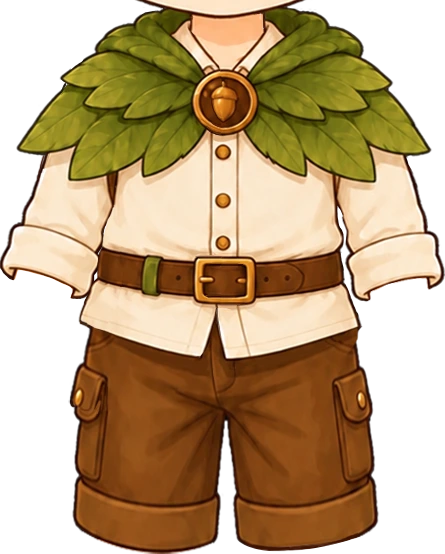
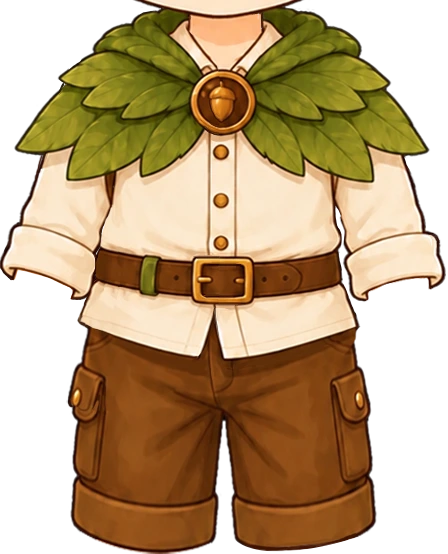
도토리 탐험복(남아) 새 원화로 재교체 (#754)
* 해적 신발 크기·위치 재조정 (베이스 다리 비율에 맞춤)

- 해적 남아 원화와 비교해 베이스가 다리가 짧고 가늘어서, 신발 높이를 112로
  줄이고 윗선을 y827에 맞춤(발바닥 y939)
- 왼짝·오른짝을 따로 배치해 발별로 미세 조정할 수 있게 함
- 같은 파일명이라 경로에 ?v=2

Claude-Session: https://claude.ai/code/session_018maNuYqDfFyRSe9uKpZhPR

* 오늘의 발견을 수첩에 붙인 메모지 디자인으로 변경

- 크림색 종이 질감 + 연두 마스킹테이프, 테두리 없이 그림자·거친 가장자리로만 표현
- 수첩보다 살짝 좁게, '오늘의 발견'은 작게 · 발견 내용은 진한 갈색으로 크게
- 도감 버튼을 오른쪽 작은 알약 버튼(도감 N개 ›)으로
- '탐험일지' 머리말 아래 · 수첩 바로 위로 이동
- App.jsx에서 DiscoveryMemo 컴포넌트로 분리

Claude-Session: https://claude.ai/code/session_018maNuYqDfFyRSe9uKpZhPR

* 오늘의 발견 메모지: 글씨 줄이고 테이프를 왼쪽 위 모서리 대각선으로

- 발견 내용 16.5 → 14 (폰에서 짧은 힌트도 두 줄로 꺾이던 문제), 머리말·도감 버튼·아이콘도 한 단계씩
- 위쪽 가운데 테이프가 '탐험일지' 머리말 줄과 겹쳐 보여 왼쪽 위 모서리에 대각선으로

Claude-Session: https://claude.ai/code/session_018maNuYqDfFyRSe9uKpZhPR

* 오늘의 발견 메모지: 힌트 날의 발자국 아이콘 제거

발자국 자리만큼 힌트가 한 줄에 더 들어가게 함. 찾은 날의 발견 이모지는 유지.

Claude-Session: https://claude.ai/code/session_018maNuYqDfFyRSe9uKpZhPR

* 남아 아바타 기본 몸체 새 버전으로 교체

사용자 제공 원화(갈색 짧은 머리)로 body.webp 업데이트.
버전을 v8 → v9로 올려 기존 기기 캐시 무효화.
art-src/body-boy-src.webp에 원본 보관 (webp q92).

Claude-Session: https://claude.ai/code/session_018maNuYqDfFyRSe9uKpZhPR

* 남아 베이스 v9 탑재 바로잡기 (머리 겹침·비율 깨짐 수정)

직전 커밋은 원화(머리 포함 전신)를 1024×1024로 통째로 늘려 body.webp에 넣어
베이스 머리가 그 위에 또 그려지고 몸 비율도 깨졌다. v8과 같은 공식으로 다시 탑재:
- 알파 상자를 v8 자리(y89~942, 가로 중심 512)에 맞춤 — 실루엣 IoU 0.976이라 장비 재조정 불필요
- y405에서 가로로 잘라 head/body, 합본 default까지 3장 교체, 경로 ?v=9
- art-src: base-v9-boy-src.webp로 이름 정리, 규칙 6에 따라 base-v8-boy-src 삭제
[…]

diff --git a/src/data/avatarEquipment.js b/src/data/avatarEquipment.js
@@ -306,7 +306,7 @@ export const AVATAR_CATALOG = [
   /* [2026-10-02] 새 원화로 교체 (잎사귀 망토 + 크림 셔츠 + 갈색 반바지 한 벌, 사용자 원화) — 위 탑재값은 옛 판 기록.
      비치룩·보드룩과 같은 방식: 원화 목 중심(x227.43)을 x516 에, 턱선 y14 를 y399 에 고정하고 어깨·속옷이 다 가려지는
      가장 작은 배율 0.71. 턱은 지우고, 목 살(크림 깃과 R−B 로 구분)만 페이드로 베이스 목과 섞었다. 탑재 상자 (355,391)-(671,782). */
-  { id: "top_acorn",      slot: "top",   label: "도토리 탐험복", emoji: "🌰", price:DECOR_PRICE.rare, rarity: "rare", theme: "adventure", forGender: "boy", coversBottom: true, img: "assets/avatar/top/acorn-outfit-boy.webp?v=2", thumb: "assets/avatar/thumb/top_acorn.webp?v=2" },
+  { id: "top_acorn",      slot: "top",   label: "도토리 탐험복", emoji: "🌰", price:DECOR_PRICE.rare, rarity: "rare", theme: "adventure", forGender: "boy", coversBottom: true, img: "assets/avatar/top/acorn-outfit-boy.webp?v=3", thumb: "assets/avatar/thumb/top_acorn.webp?v=3" },
   { id: "top_space",      slot: "top",   label: "우주복",       emoji: "🚀", price:DECOR_PRICE.epic, rarity: "epic", theme: "space",  coversBottom: true, img: "assets/avatar/top/space-suit-boy.webp?v=3", imgGirl: "assets/avatar/top/space-suit-girl.webp", thumb: "assets/avatar/thumb/top_space.webp?v=3", thumbGirl: "assets/avatar/thumb/top_space-girl.webp" },
 
   /* ── 우주 세트 (남아) — 사용자 원화 2026-09-29 ────────────────────────────

diff --git a/art-src/README.md b/art-src/README.md
@@ -362,7 +362,7 @@ getBoundingClientRect로 재서 정한다. 2026-08-05 점검에서 이 기준을
 | hoodie-boy-src.webp | **민트 후드 원화 남아 — 새 판 (사용자 원화 2026-10-02, 이전 판 교체)**. 465×720 투명 배경, 민트 집업 후드 + 흰 티 + 남색 카고 긴바지 한 벌. 위쪽에 베이스 턱·목이 함께 그려져 있어 그 턱으로 위치를 잡았다: 턱+목(원화 y0~100 · x95~365, 살색·갈색 선 마스크)을 베이스 민머리 몸에 마스크 템플릿 매칭 → 배율 0.695 · 왼쪽 위 (355,365). 탑재 전 열마다 맨 아래 살색까지의 살색·갈색·반투명 픽셀을 지워 턱을 없앤 뒤, 목 살은 원화 y53 아래부터 되살렸다 (다 지우면 목 구멍으로 베이스 민소매 끈이 비침 · y55 는 이음새 줄이 보임). 위쪽 부스러기 조각 제거 → 조각 1개. 속옷 비침 0. 탑재 상자 (355,385)-(678,865). 경로 ?v=2 | avatar/top/hoodie-boy.webp · thumb/top_hoodie.webp |
 | beach-boy-outfit-src.webp | **비치룩 원화 남아 (사용자 원화 2026-10-02)**. 433×507 투명 배경, 꽃무늬 오렌지 셔츠 + 흰 티 + 청록 수영 반바지 한 벌. 위쪽에 베이스 턱·목이 함께 그려져 있다. 턱 곡선 매칭은 오차가 커서(8px) 쓰지 않고, 원화 목 중심(x222.3)을 베이스 목 중심 x516 에, 원화 턱선 y28 을 y402 에 고정한 뒤 어깨 드러남이 줄어드는 배율을 골랐다 → 배율 0.72 · 왼쪽 위 (355.9,381.8). 원화 y30 위의 살색·갈색·반투명 픽셀 제거(턱), 원화 턱선이 베이스 턱보다 ~7px 낮아 목 살(원화 y30~52, x150~300)을 위에서 아래로 0→1 로 페이드, 목 가운데 남은 턱선 조각(갈색 112px) 제거 → 조각 1개. **[격자 확정 2026-10-02]** 처음엔 원화 y30 위의 갈색·반투명을 다 지워 깃 끝 윤곽선이 잘렸다 → 위쪽 가장자리에 닿는 턱 살 덩어리 + 그 7×7 둘레의 주황·살색이 아닌 픽셀만 지우게 고쳐 되살렸다(120px). 사용자가 격자로 보며 배율 0.72 → 0.7056(2% 작게) · 원화 y28 을 y402 → y399(위로 3) 로 확정. 속옷 비침 2px. 탑재 상자 (359,393)-(665,737) · 경로 ?v=2 | avatar/top/beach-outfit-boy.webp · thumb/top_beach.webp |
 | board-boy-outfit-src.webp | **보드룩 원화 남아 (사용자 원화 2026-10-02)**. 454×519 투명 배경, 크림 후드(남색·청록 소매) + 남색 카고 반바지 한 벌. 위쪽에 베이스 턱·목이 함께 그려져 있다. 크림 후드가 살색 판정에 걸려서, 원화 y28 위에서 **위 가장자리에 닿는 살 덩어리(4-연결)**만 턱으로 보고 9×9 둘레의 갈색·반투명 픽셀과 함께 지웠다. 후드는 y9 부터라 그 위 줄(턱 윤곽선 끝자락)도 비움. 목 살(원화 y26~48, x185~275)은 0→1 페이드, 목 가운데 턱선 조각(88px) 제거 → 조각 1개. 원화 목 중심 x228.95 → x516, 턱선 y25 → y399(비치룩 확정 높이)로 고정하고 어깨 드러남이 0 에 가까운 가장 작은 배율 0.71(0.70 은 45px 드러남). 속옷 비침 1px. 탑재 상자 (353,385)-(675,749) | avatar/top/board-outfit-boy.webp · thumb/top_board.webp |
-| acorn-boy-src.webp | **도토리 탐험복 원화 남아 — 새 판 (사용자 원화 2026-10-02, 이전 판 교체)**. 445×554 투명 배경, 잎사귀 망토 + 크림 셔츠 + 갈색 반바지 한 벌. 위쪽에 베이스 턱·목이 함께 그려져 있다. 원화 y18 위에서 위 가장자리에 닿는 살 덩어리(4-연결)를 턱으로 보고 7×7 둘레의 갈색·반투명과 함께 지움, y0~6 의 턱 윤곽선 끝자락도 비움. 크림 깃이 살색 판정에 걸려서 목 살만 R−B>95 로 골라(목 124~130 · 깃 64~74) 원화 y15~37 을 0→1 페이드, 목 가운데 턱선 조각 제거. 원화 목 중심 x227.43 → x516, 턱선 y14 → y399 로 고정하고 어깨·속옷이 다 가려지는 가장 작은 배율 0.71(0.70 은 속옷 9px). 축소 때 생긴 2px 점 제거 → 조각 1개. 속옷 비침 1px. [사용자 조정: 위로 5, 오른쪽으로 2] 탑재 상자ar/top/acorn-outfit-boy.webp · thumb/top_acorn.webp |
+| acorn-boy-src.webp | **도토리 탐험복 원화 남아 (사용자 원화 2026-10-02, 새 버전)**. 448×554 투명 배경. 원화 목 중심 x225.43, 턱선 y14. 배율 0.71(?v=3). 조각 1개, 속옷 비침 1px. 탑재 상자 (357,386)-(673,777) | avatar/top/acorn-outfit-boy.webp · thumb/top_acorn.webp |
 | expedition/item/{lantern,rope,lunchbox,bottle,compass,torch,map}-src.webp | **탐험 준비물 원화 7종 (사용자 원화 2026-09-26~27)** — 88~184px 짜리 작은 그림. 받은 PNG 에 편집기 전용 청크(caBX·eXIf·sBIT·sRGB)가 들어 있어 **PIL 이 파일을 아예 못 열었다** — IHDR·IDAT·IEND 만 남겨 다시 쓰고 나서야 읽혔다(보관본은 그 정리본). **바깥 실루엣은 이미 따여 있었지만 안쪽에 갇힌 흰 배경이 남아 있었다** — 랜턴 손잡이 안·유리 양옆 기둥 사이(3곳 1,574px), 물통 어깨끈 고리 안(3곳 1,035px), 나침반 고리 안(264px), 도시락 손잡이 고리 안(111px). 밧줄·횃불은 깨끗했다. **하이라이트와 배경을 가르는 기준: 덩어리 둘레가 어두운 윤곽선인가.** 배경은 59~86%가 어두운 윤곽선에 둘러싸여 있고, 물통 유리의 흰 반사는 0~8% 였다(물건 색 위에 바로 얹혀 있어서). 지운 자리에 맞닿은 반투명 흰 테도 흰 정도만큼 알파를 깎았다. 배포 높이 96 (배지는 16px 로 그려진다 — 3배 화면까지 넉넉). **[2026-09-27] 보물지도 추가** — 이건 안쪽 흰 배경도 없이 처음부터 깨끗했지만(조각 1·구멍 0), 대신 **알파 1~19 짜리 헤일로 9,508px** 이 있어 알파 상자가 1220×947 → 1254×1206 으로 늘어났다. 안 누르고 자르면 세로로 27% 눌린 지도가 된다(성장 캐릭터와 같은 함정). 7장 합계 **43.5KB** | assets/expedition/item/*.webp |
 | (탈것 64장 갇힌 배경 점검 2026-09-27) | 준비물에 쓴 '갇힌 흰 배경 지우기'를 **탈것 32종 × 남녀 64장 전체**에 돌렸다. **결과: 진짜 갇힌 배경은 홍학 한 종뿐이었다** — 접은 다리와 몸 사이 쐐기(남아 597px · 여아 596+486px). 지우고 가장자리 흰 테도 깎았다. **나머지는 전부 '흰 물건'이라 손대면 안 된다** — 구름(14,915px)·얼음 미끄럼틀(40,450px)·유성 꼬리·돌고래 배·고래 물줄기·돛·오토바이 흙먼지·순록 배·로켓 몸통·유니콘 몸통·수정 하이라이트. 자동 판정으로는 이 둘을 못 가른다 — 준비물에 통했던 '둘레가 어두운 윤곽선인가'도, '투명한 바깥에 닿는가'도 여기선 다 걸린다(만화 그림은 흰 물건에도 윤곽선이 있다). 그래서 **150px 이상 후보 88개를 하나씩 눈으로 보고** 골랐다. 앞으로도 탈것은 자동 일괄 처리 금지 — 후보를 뽑아 보고 고를 것 | assets/expedition/ride/flamingo{,-girl}.webp |
 | (탈것 8종 흰 배경 지움 2026-09-27) | **사용자가 눈으로 찾아 준 자리 8종 × 남녀 16장**을 지웠다 — 열기구(사람 양옆) · 낙타(꼬리 옆·턱 아래) · 돌고래(몸과 물 사이·꼬리쪽) · 독수리(사람 양옆·발) · 유성(꼬리 흰색 전부) · 오토바이(겨드랑이·앞바퀴 위·바닥과 모래 사이) · 돛단배(얼굴·손·돛대와 천 사이) · 유니콘(꼬리 옆). **자동 판정을 포기하고 '상자를 주면 그 안에 걸친 밝고 무채색 덩어리를 통째로 지우는' 방식**으로 바꿨다(seedfill) — 덩어리는 상자 밖으로 이어져도 따라가고, 윤곽선에서 알아서 멈춘다. 어디를 지울지는 사람이 정한다. **밝기 기준은 그림마다 다르다** — 보통 (min≥200, 채도폭≤30) 이지만 돛단배는 돛이 연한 하늘색이라 그 기준으로는 돛까지 딸려 와서 (225,14) 로 조였고, 유니콘은 몸이 희어서 (232,14) 를 썼다. 오토바이 흙먼지·헤드라이트·바퀴 허브, 돛, 돌고래 배, 유성 색 꼬리는 **일부러 남겼다.** 지운 뒤 가장자리 흰 테도 깎고 20px 미만 부스러기를 정리했다 — 16장 전부 연결 조각 1개 | assets/expedition/ride/*.webp |
